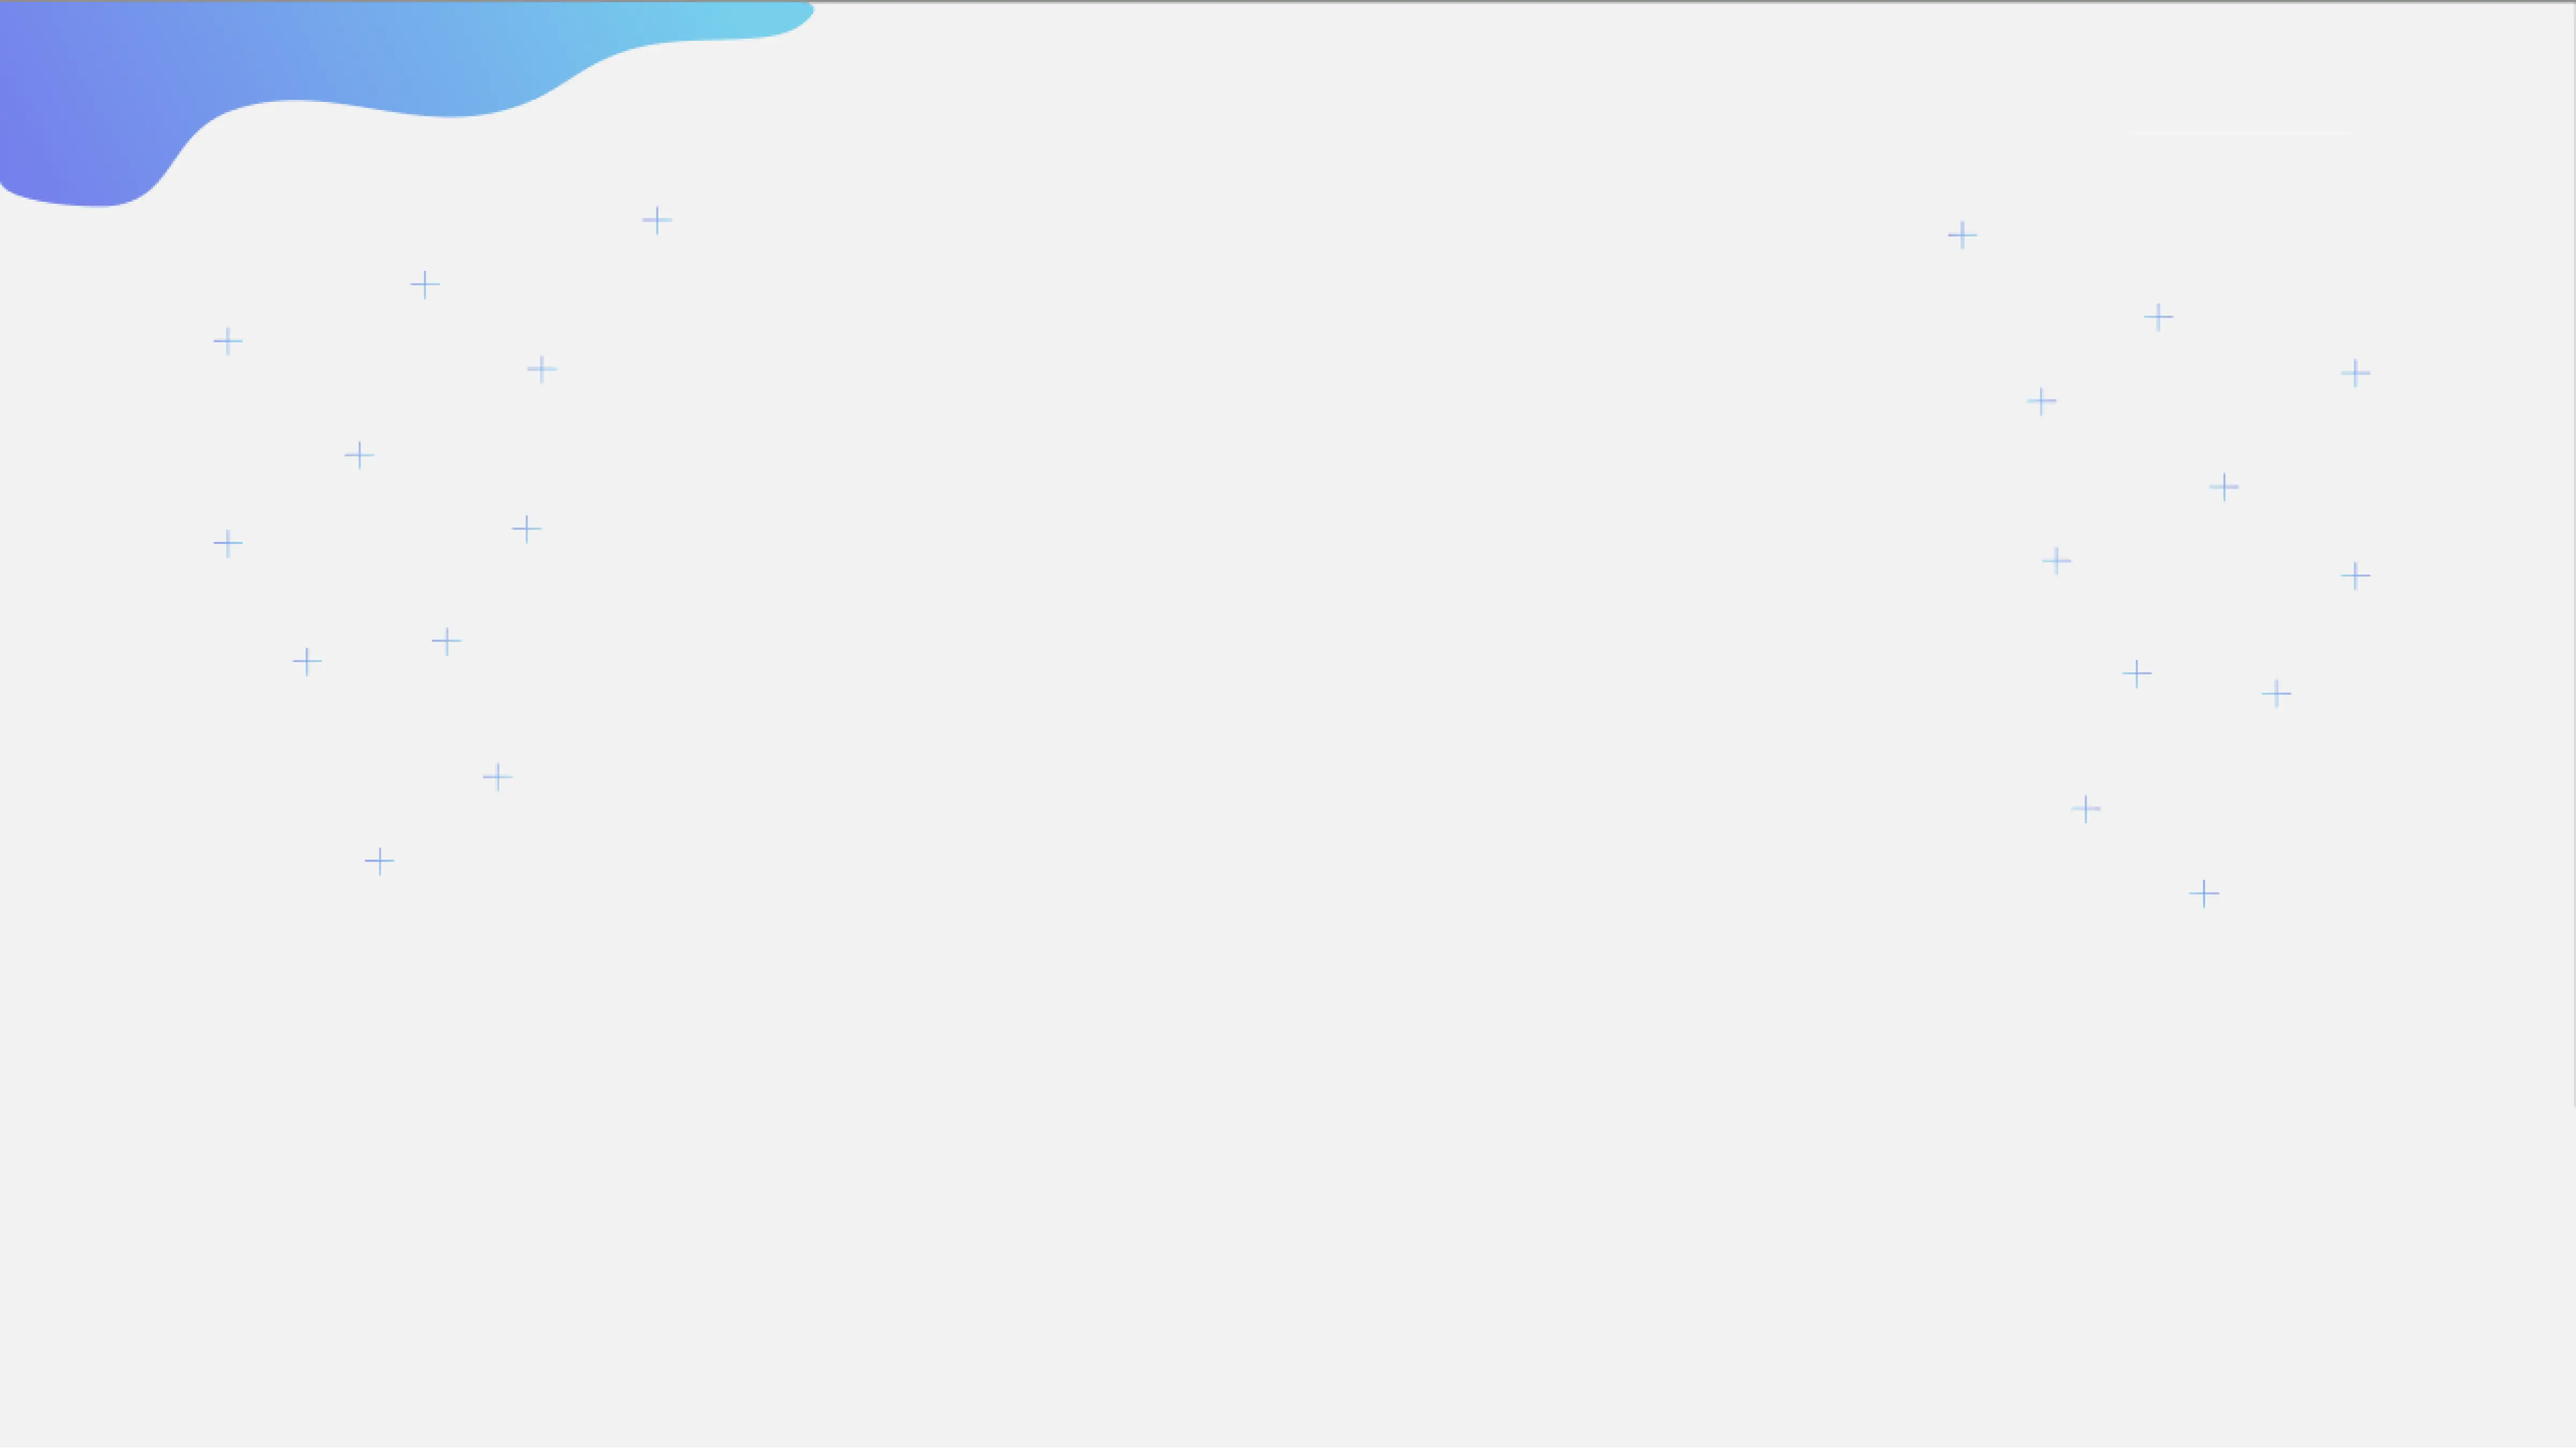
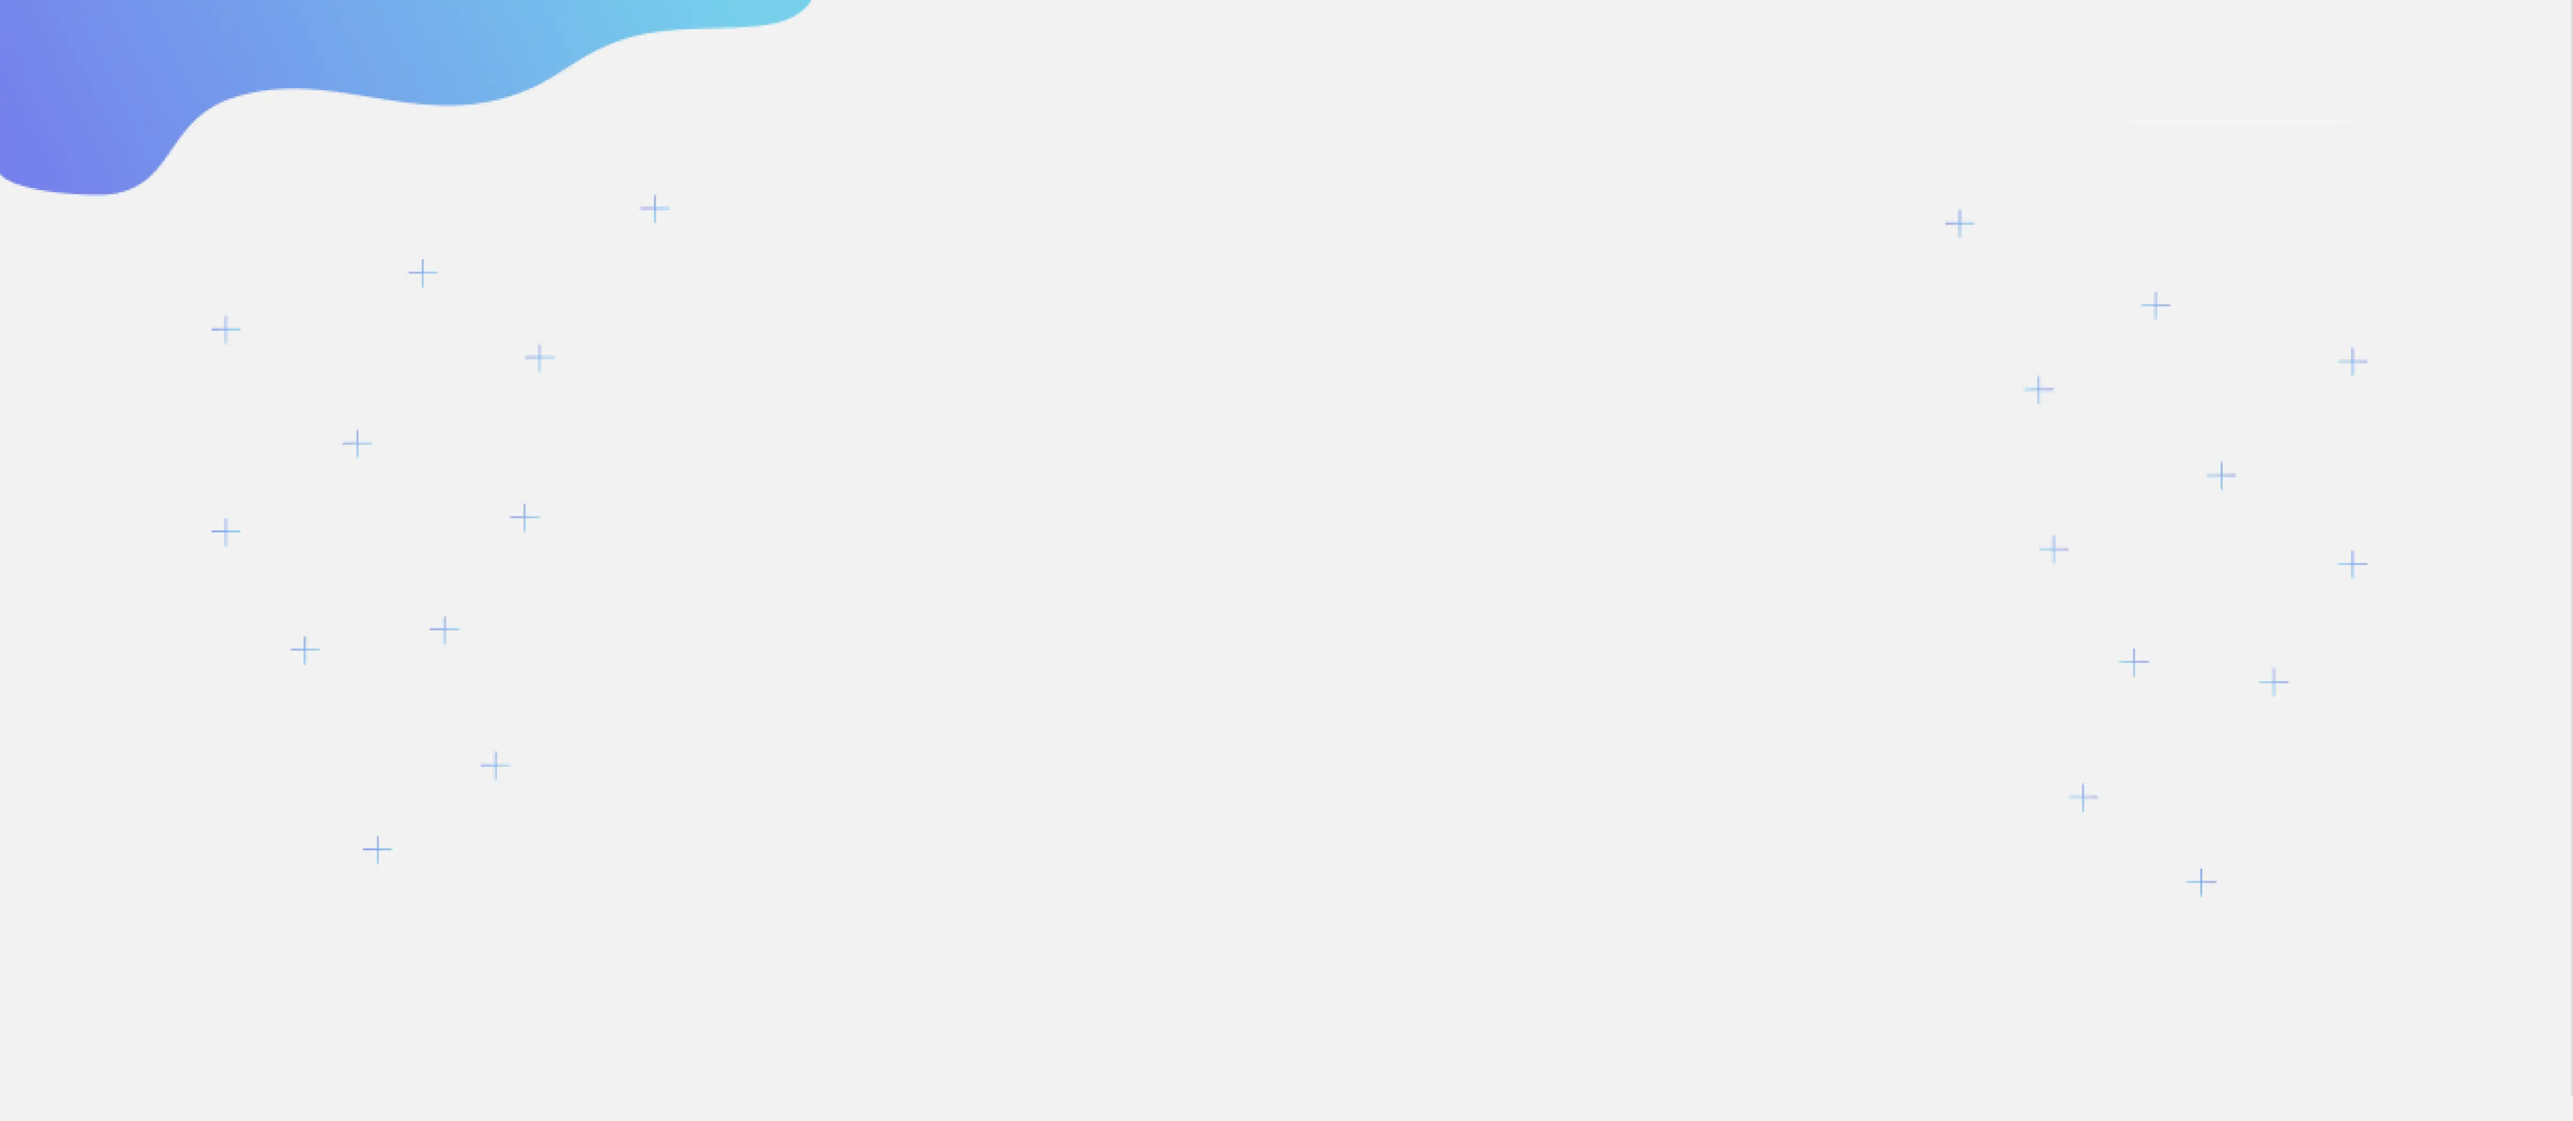
adaptive of page

Changed region(s): [[0.0, 0.0622, 0.2175, 0.1867], [0.2485, 0.0, 0.3417, 0.0311]]

diff --git a/src/components/Header/Header.module.sass b/src/components/Header/Header.module.sass
@@ -3,9 +3,9 @@
 
 header
 	width: 100%
-	height: 60vh
+	height: 70vh
 	background-image: url('../../images/background.webp')
-	background-size: cover
+	background-size: 100% 100%
 	background-repeat: no-repeat
 	background-position: center
 
@@ -16,8 +16,9 @@ header
 		height: 125px
 
 		ul
+			width: 100%
 			height: 100%
-			@include flex(center, center)
+			@include flex(space-between, center)
 			padding-left: 150px
 			padding-right: 150px
 			list-style-type: none
@@ -37,7 +38,7 @@ header
 					@include flex(center, center, 20px)
 					width: 205px
 					height: 65px
-					font-size: 20px
+					font-size: 2rem
 					border: none
 					border-radius: 20px
 					background: #FFF
@@ -45,12 +46,19 @@ header
 					img
 						width: 55px
 
+
+				.userLogo
+					display: none
+					border: none
+
+
+
 	h1
 		max-width: 1000px
 		text-align: center
-		font-size: 60px
+		font-size: 6rem
 		font-weight: 700
-		line-height: 63px
+		line-height: 1.2
 		color: $dark
 
 		.gradientText
@@ -65,9 +73,9 @@ header
 		max-width: 1000px
 		color: #848484
 		text-align: center
-		font-size: 25px
+		font-size: 2.5rem
 		font-weight: 700
-		line-height: 36px
+		line-height: 1.4
 		letter-spacing: -0.5px
 
 	.subscribeBtn
@@ -78,6 +86,54 @@ header
 		border-radius: 40px
 		background: $dark
 		color: $light
-		font-size: 20px
+		font-size: 2rem
 		font-weight: 700
 		line-height: 63px
+
+@media screen and (max-width: 1200px)
+	ul
+		@include flex(space-between, center, 0, 0)
+		width: 100%
+		padding-right: 120px !important
+		padding-left: 120px !important
+
+		li
+			justify-content: flex-start !important
+			width: 100% !important
+
+			&:first-child
+				display: none
+			&:last-child
+				justify-content: flex-end !important
+
+@media screen and (max-width: 775px)
+	nav
+		padding-top: 20px
+	ul
+		@include flex(space-between, center, 0, 0)
+		width: 100%
+		padding-right: 50px !important
+		padding-left: 50px !important
+
+		li
+			justify-content: flex-start !important
+			width: 100% !important
+
+			&:first-child
+				display: !important
+			&:last-child
+				justify-content: flex-end !important
+
+@media screen and (max-width: 600px)
+	.userBtn
+		display: none !important
+	.userLogo
+		display: flex !important
+
+
+@media screen and (max-width: 400px)
+	.subscribeBtn
+		width: 250px !important
+	ul
+		padding-right: 20px !important
+		padding-left: 20px !important

diff --git a/src/components/Plans/Plans.module.sass b/src/components/Plans/Plans.module.sass
@@ -22,7 +22,7 @@
 
 		h2
 			color: $light
-			font-size: 40px
+			font-size: 4rem
 			font-weight: 700
 			line-height: 22px
 			letter-spacing: -0.408px
@@ -45,21 +45,21 @@
 				background: $grey
 				color: $light
 				text-align: center
-				font-size: 16px
+				font-size: 1.6rem
 				font-weight: 700
 				line-height: 22px
 				letter-spacing: -0.408px
 
 			h4
 				color: $dark
-				font-size: 30px
+				font-size: 3rem
 				font-weight: 700
 				line-height: 22px
 				letter-spacing: -0.408px
 
 			.halfTransparentText
 				color: rgba(0, 0, 0, 0.50)
-				font-size: 20px
+				font-size: 2rem
 				font-weight: 700
 				line-height: 22px
 				letter-spacing: -0.408px
@@ -71,7 +71,7 @@
 
 			p
 				color: rgba(0, 0, 0, 0.50)
-				font-size: 18px
+				font-size: 1.8rem
 				font-weight: 700
 				line-height: 22px
 				letter-spacing: -0.408px
@@ -82,15 +82,16 @@
 				border-radius: 20px
 				background: $dark
 				color: $light
-				font-size: 20px
+				font-size: 2rem
 				font-weight: 700
 				line-height: 22px
 				letter-spacing: -0.408px
 				align-self: center
 
 		.info
+			width: 90%
 			color: rgba(255, 255, 255, 0.50)
-			font-size: 16px
+			font-size: 1.6rem
 			font-weight: 700
 			line-height: 22px
-		letter-spacing: -0.408px
+			letter-spacing: -0.408px

diff --git a/src/components/Credits/Credits.module.sass b/src/components/Credits/Credits.module.sass
@@ -21,7 +21,7 @@
 
 		h2
 			color: $dark
-			font-size: 40px
+			font-size: 4rem
 			font-weight: 700
 			line-height: 22px
 			letter-spacing: -0.408px
@@ -36,16 +36,17 @@
 			background: #ffffff
 			border-radius: 30px
 
+
 			h4
 				color: $dark
-				font-size: 30px
+				font-size: 3rem
 				font-weight: 700
 				line-height: 22px
 				letter-spacing: -0.408px
 
 			.halfTransparentText
 				color: rgba(0, 0, 0, 0.50)
-				font-size: 20px
+				font-size: 2rem
 				font-weight: 700
 				line-height: 22px
 				letter-spacing: -0.408px
@@ -56,7 +57,7 @@
 				border-radius: 10px
 				background: $dark
 				color: $light
-				font-size: 20px
+				font-size: 2rem
 				font-weight: 700
 				line-height: 22px
 				letter-spacing: -0.408px

diff --git a/src/components/Benefits/Benefits.module.sass b/src/components/Benefits/Benefits.module.sass
@@ -6,11 +6,13 @@
 	margin-bottom: 140px
 	width: 100%
 	@include flex(center, 50px, 20px, row, wrap)
+	flex-wrap: wrap
 
 	.item
 		@include flex(center, center, 50px, 20px, column, no-wrpa)
 		padding: 30px
 		width: 300px
+		min-width: 300px
 		height: 300px
 		background: white
 		border-radius: 30px
@@ -23,10 +25,14 @@
 			line-height: 22px
 			letter-spacing: -0.408px
 
-		h3
+		h2
 			color: $dark
 			text-align: center
-			font-size: 30px
+			font-size: 3rem
 			font-weight: 700
 			line-height: 22px
 			letter-spacing: -0.408px
+
+@media screen and (max-width: 400px)
+	.benefits
+		margin-top: 60px !important

diff --git a/src/components/Header/Header.jsx b/src/components/Header/Header.jsx
@@ -1,5 +1,6 @@
 import React from 'react'
 import logo from '../../images/logo.webp'
+import user from '../../images/user.webp'
 import styles from './Header.module.sass'
 
 const Header = () => {
@@ -13,7 +14,11 @@ const Header = () => {
 					</li>
 					<li>
 						<button className={styles.userBtn}>
-							Konstantin <img src={logo}></img>
+							Константин <img src={user}></img>
+						</button>
+
+						<button className={styles.userLogo}>
+							<img src={user}></img>
 						</button>
 					</li>
 				</ul>

diff --git a/src/styles/App.module.sass b/src/styles/App.module.sass
@@ -1,9 +1,16 @@
 @import "variables.sass"
 @import "mixins.sass"
 
+html
+  font-size: 10px
 body
   background: $lightGrey
 
   main
     @include flex(flex-start, center, 0px, 0px, column, no-wrap)
+
+
+@media screen and (max-width: 800px)
+  html
+    font-size: 8px
 

diff --git a/src/styles/mixins.sass b/src/styles/mixins.sass
@@ -26,8 +26,9 @@
 	.container
 		position: relative
 		@include size(1400px, 100%)
+		max-width: 1400px
 		@include flex(center, start, 0, 0, column)
-		padding: 0 20px
+		padding: 0 30px
 		padding-top: 100px
 
 @media screen and (max-width: 1200px)
